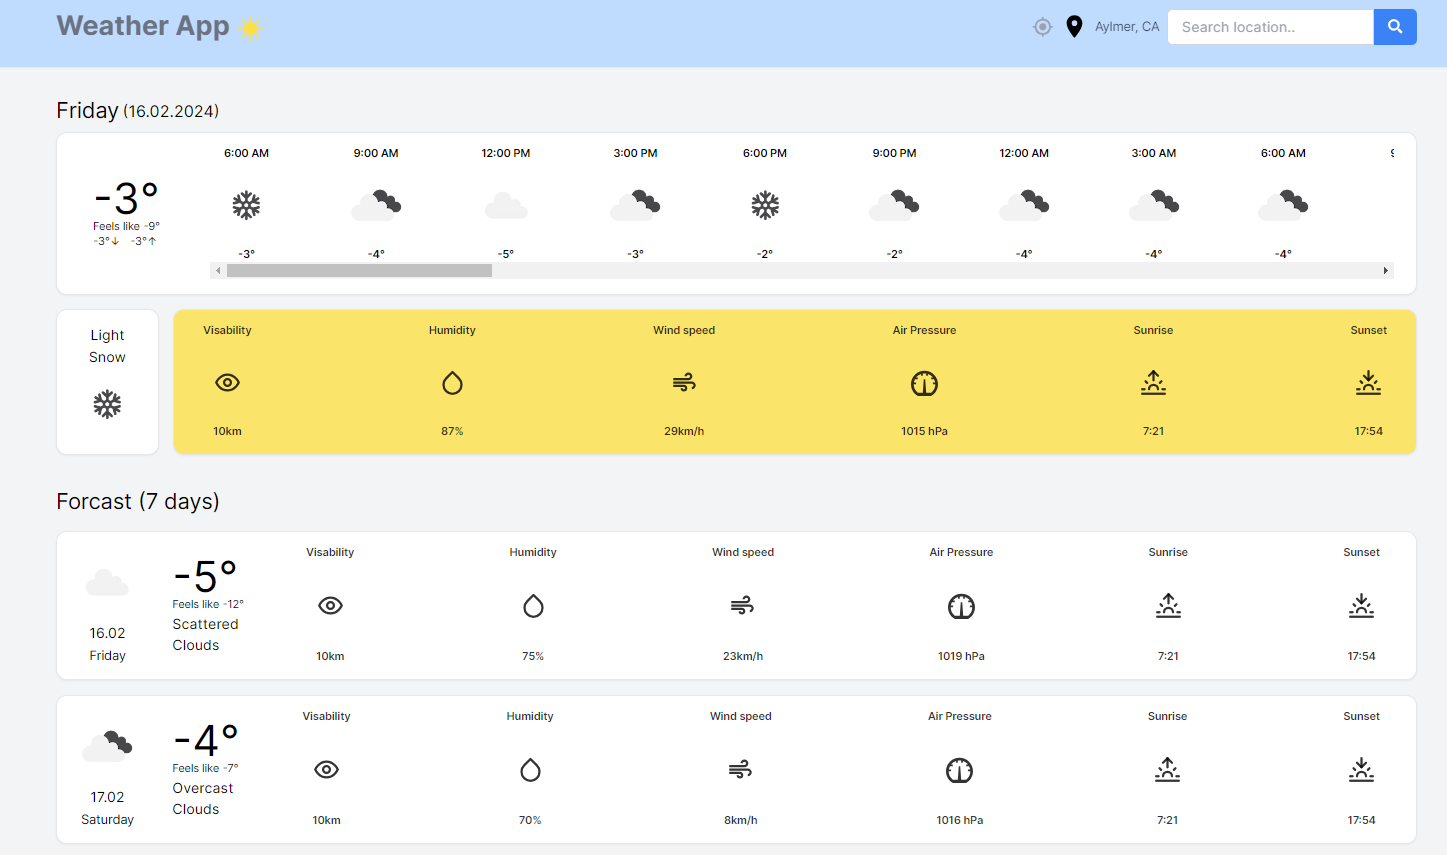
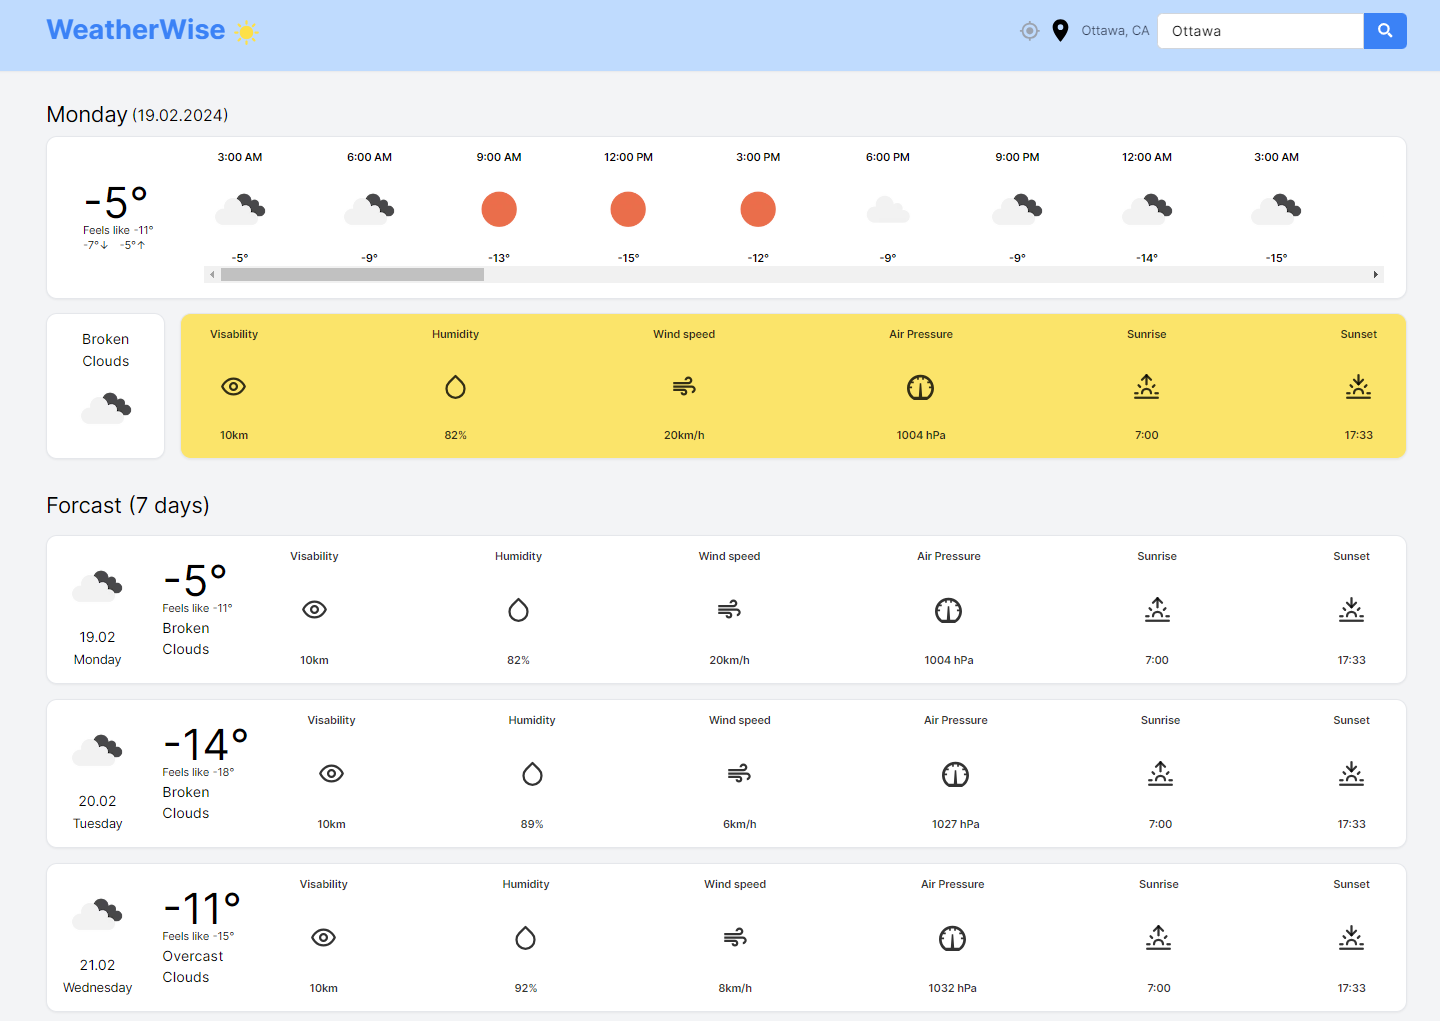
name change

diff --git a/src/components/Navbar.tsx b/src/components/Navbar.tsx
@@ -89,7 +89,7 @@ export default function Navbar({ location }: Props) {
       <nav className="shadow-sm sticky top-0 left-0 z-50 bg-blue-200">
         <div className="h-[90px] w-full flex justify-between items-center max-w-screen-2xl px-3 mx-auto">
           <p className="flex items-center justify-center gap-2">
-            <h2 className="text-gray-500 text-3xl font-bold">Weather App</h2>
+            <h2 className="text-blue-500 text-3xl font-bold">WeatherWise</h2>
             <MdSunny className="text-3xl mt-1 text-yellow-300" />
           </p>
           <section className="flex gap-2 items-center">

diff --git a/README.md b/README.md
@@ -1,4 +1,4 @@
-## Weather App
+## WeatherWise
 created using `Next.js`, `TypeScript`, `Tailwind`, `WeatherAPI`. <br>
 
 ### Features
@@ -7,10 +7,10 @@ created using `Next.js`, `TypeScript`, `Tailwind`, `WeatherAPI`. <br>
 - View current day weather forecasts.
 - Access 7-day weather forecasts.
 
-####  Weather App Main Screen
+####  WeatherWise Main Screen
 ![Main screen](./public/weatherApp.png)
 
-#### Weather App Loading Screen
+#### WeatherWise Loading Screen
 ![Loading Screen](./public/weatherLoading.png)
 
 
